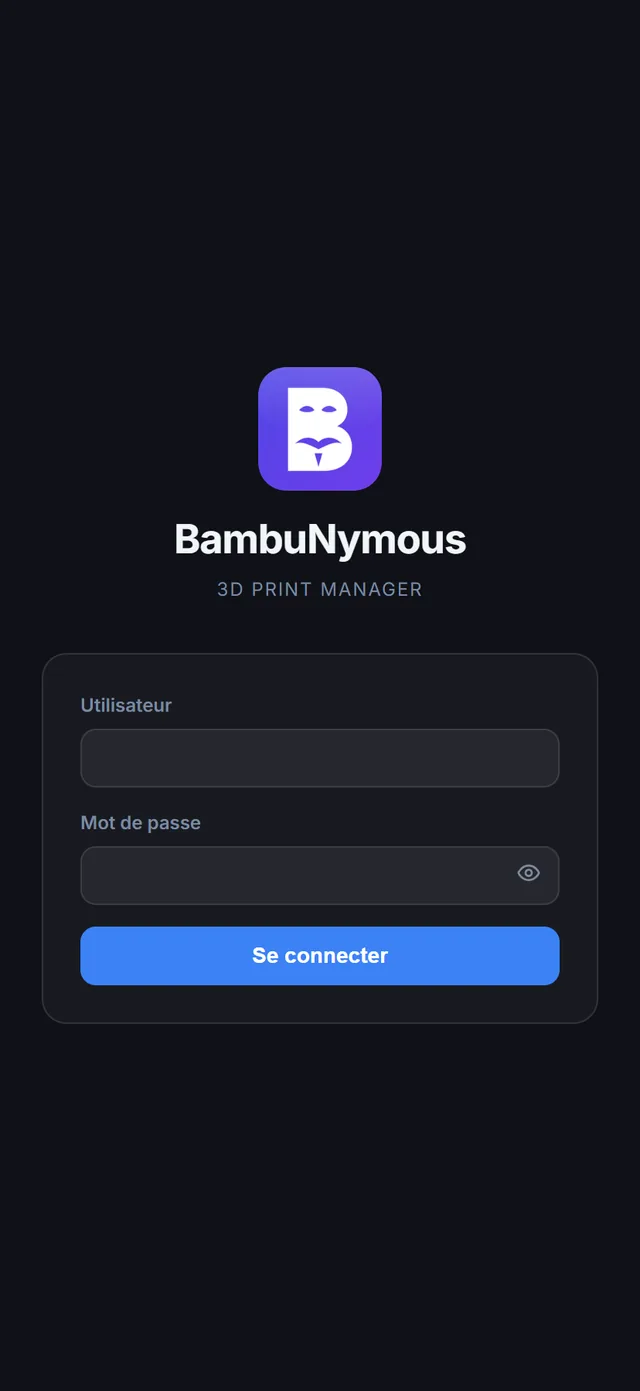
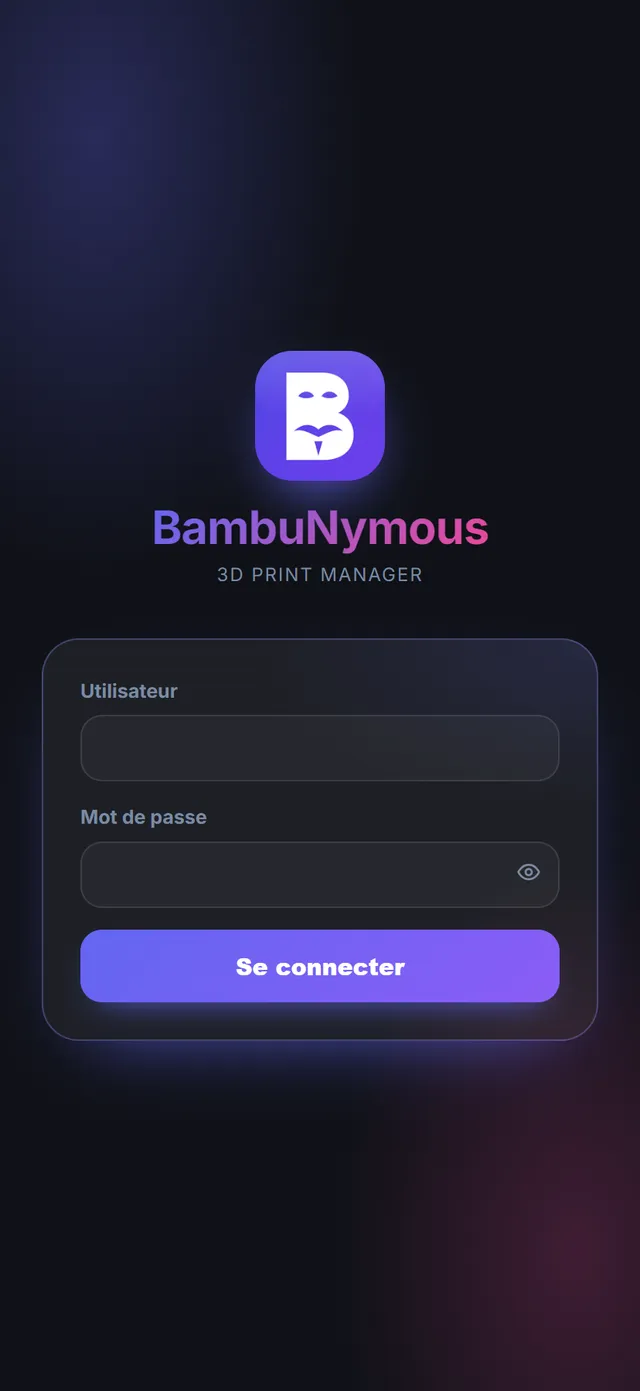
Boîtes de confirmation et écran de connexion dans le nouveau style
- confirmations : coins arrondis, en-tête teinté (rouge pour une action qui détruit), boutons en dégradé
- connexion : fond en halos, nom en dégradé, carte teintée, champs et bouton arrondis

diff --git a/frontend/src/pages/Login.jsx b/frontend/src/pages/Login.jsx
@@ -28,36 +28,40 @@ export default function Login() {
   };
 
   const inp = {
-    width:"100%", background:"var(--surface2)", border:"1px solid var(--border)",
-    borderRadius:10, padding:"10px 14px", fontSize:14, color:"var(--text)",
+    width:"100%", background:"var(--surface)", border:"1px solid var(--border)",
+    borderRadius:14, padding:"12px 14px", fontSize:15, fontWeight:600, color:"var(--text)",
     outline:"none", transition:"border-color 0.15s", boxSizing:"border-box",
   };
 
   return (
     <div style={{ minHeight:"100%", display:"flex", alignItems:"center",
-      justifyContent:"center", background:"var(--bg)", padding:16 }}>
+      justifyContent:"center", padding:16,
+      background:"radial-gradient(60% 45% at 15% 10%, rgba(99,102,241,0.30), transparent 70%), radial-gradient(55% 40% at 90% 90%, rgba(236,72,153,0.22), transparent 70%), var(--bg)" }}>
       <div style={{ width:"100%", maxWidth:360, display:"flex", flexDirection:"column", gap:0 }}>
 
         {/* Logo + nom */}
         <div style={{ display:"flex", flexDirection:"column", alignItems:"center", gap:12, marginBottom:32 }}>
-          <img src="/icon-192.png" alt="BambuNymous" style={{ width:80, height:80, borderRadius:18 }}/>
+          <img src="/icon-192.png" alt="BambuNymous" style={{ width:84, height:84, borderRadius:24, boxShadow:"0 16px 36px -14px #6366F1" }}/>
           <div style={{ textAlign:"center" }}>
-            <h1 style={{ fontSize:26, fontWeight:800, color:"var(--text)",
-              letterSpacing:"-0.02em", margin:0 }}>BambuNymous</h1>
+            <h1 style={{ fontSize:30, fontWeight:900, letterSpacing:"-0.02em", margin:0, lineHeight:1.2,
+              backgroundImage:"linear-gradient(135deg, #6366F1, #EC4899)", WebkitBackgroundClip:"text", backgroundClip:"text", color:"transparent" }}>BambuNymous</h1>
             <p style={{ fontSize:12, color:"var(--muted)", margin:"4px 0 0",
               textTransform:"uppercase", letterSpacing:"0.08em" }}>3D Print Manager</p>
           </div>
         </div>
 
         {/* Formulaire */}
-        <div className="card" style={{ padding:24, display:"flex", flexDirection:"column", gap:14 }}>
+        <div style={{ padding:24, display:"flex", flexDirection:"column", gap:14, borderRadius:24,
+          border:"1px solid color-mix(in srgb, #6366F1 26%, var(--border))",
+          background:"radial-gradient(90% 60% at 100% 0%, rgba(99,102,241,0.14), transparent 70%), var(--surface2)",
+          boxShadow:"0 20px 50px -30px #6366F1" }}>
           <div style={{ display:"flex", flexDirection:"column", gap:6 }}>
-            <label style={{ fontSize:12, color:"var(--muted)", fontWeight:600 }}>Utilisateur</label>
+            <label style={{ fontSize:12.5, color:"var(--muted)", fontWeight:800 }}>Utilisateur</label>
             <input value={user} onChange={e=>setUser(e.target.value)}
               style={inp} autoComplete="username"/>
           </div>
           <div style={{ display:"flex", flexDirection:"column", gap:6 }}>
-            <label style={{ fontSize:12, color:"var(--muted)", fontWeight:600 }}>Mot de passe</label>
+            <label style={{ fontSize:12.5, color:"var(--muted)", fontWeight:800 }}>Mot de passe</label>
             <div style={{ position:"relative" }}>
               <input type={show?"text":"password"} value={pass}
                 onChange={e=>setPass(e.target.value)}
@@ -84,10 +88,10 @@ export default function Login() {
               </p>
             </div>
           )}
-          {error && <p style={{ fontSize:12, color:"#ef4444", margin:0 }}>{error}</p>}
+          {error && <p style={{ fontSize:13, fontWeight:700, color:"#ef4444", margin:0 }}>⚠ {error}</p>}
           <button onClick={handleSubmit} disabled={loading}
-            style={{ width:"100%", padding:"11px", background:"#3b82f6", border:"none",
-              borderRadius:10, color:"white", fontSize:14, fontWeight:700,
+            style={{ width:"100%", padding:"13px", background:"linear-gradient(135deg, #6366F1, #8B5CF6)", border:"none",
+              borderRadius:14, color:"white", fontSize:15, fontWeight:800, boxShadow:"0 10px 22px -12px #6366F1",
               cursor:loading?"not-allowed":"pointer", opacity:loading?0.7:1,
               transition:"opacity 0.15s" }}>
             {loading ? "Connexion…" : "Se connecter"}

diff --git a/frontend/src/components/DialogHost.jsx b/frontend/src/components/DialogHost.jsx
@@ -25,6 +25,9 @@ export default function DialogHost() {
   // les infobulles maison vivent ici (monte une fois, sur toutes les pages)
   if (!dlg) return <TipHost/>;
   const isConfirm = dlg.type === "confirm";
+  // la couleur de la boite : rouge pour une action qui detruit, bleu sinon (un simple message : neutre)
+  const c = dlg.danger ? "#EF4444" : isConfirm ? "#3B82F6" : "#6366F1";
+  const c2 = dlg.danger ? "#F97316" : isConfirm ? "#6366F1" : "#8B5CF6";
   const close = (val) => { dlg.resolve(val); setDlg(null); };
 
   return (<>
@@ -34,24 +37,26 @@ export default function DialogHost() {
         display: "flex", alignItems: "center", justifyContent: "center", padding: 20,
         animation: "dlgFade 0.12s ease" }}>
       <div onClick={(e) => e.stopPropagation()} className="sheet-panel"
-        style={{ width: "100%", maxWidth: 380, borderRadius: 16, padding: 20,
-          border: "1px solid var(--border)", boxShadow: "0 12px 48px rgba(0,0,0,0.4)" }}>
-        {dlg.title && (
-          <p style={{ fontSize: 15, fontWeight: 800, color: "var(--text)", margin: "0 0 8px" }}>{dlg.title}</p>
-        )}
-        <p style={{ fontSize: 13.5, color: "var(--text)", lineHeight: 1.5, margin: "0 0 18px",
-          whiteSpace: "pre-wrap" }}>{dlg.message}</p>
-        <div style={{ display: "flex", gap: 8, justifyContent: "flex-end" }}>
+        style={{ width: "100%", maxWidth: 400, borderRadius: 22, padding: 0, overflow: "hidden",
+          border: `1px solid color-mix(in srgb, ${c} 30%, var(--border))`, boxShadow: `0 20px 60px rgba(0,0,0,0.45), 0 0 0 4px ${c}1a` }}>
+        <div style={{ padding: "18px 20px 16px", background: `radial-gradient(circle at 0% 0%, ${c}33, transparent 60%), var(--surface2)` }}>
+          {dlg.title && (
+            <p style={{ fontSize: 17, fontWeight: 900, color: "var(--text)", margin: "0 0 8px" }}>{dlg.title}</p>
+          )}
+          <p style={{ fontSize: 14.5, fontWeight: 600, color: "var(--text)", lineHeight: 1.5, margin: 0,
+            whiteSpace: "pre-wrap" }}>{dlg.message}</p>
+        </div>
+        <div style={{ display: "flex", gap: 8, justifyContent: "flex-end", padding: "12px 16px 14px", borderTop: "1px solid var(--border)" }}>
           {isConfirm && (
             <button onClick={() => close(false)}
-              style={{ padding: "9px 16px", borderRadius: 10, border: "1px solid var(--border)",
-                background: "var(--surface2)", color: "var(--muted)", fontSize: 13, fontWeight: 600,
+              style={{ padding: "10px 16px", borderRadius: 12, border: "1px solid var(--border)",
+                background: "var(--surface2)", color: "var(--text)", fontSize: 13.5, fontWeight: 800,
                 cursor: "pointer" }}>{dlg.cancelLabel || "Annuler"}</button>
           )}
           <button onClick={() => close(isConfirm ? true : undefined)} autoFocus
-            style={{ padding: "9px 18px", borderRadius: 10, border: "none",
-              background: dlg.danger ? "#ef4444" : "#3b82f6", color: "white", fontSize: 13,
-              fontWeight: 700, cursor: "pointer" }}>
+            style={{ padding: "10px 18px", borderRadius: 12, border: "none",
+              background: `linear-gradient(135deg, ${c}, ${c2})`, boxShadow: `0 8px 18px -10px ${c}`, color: "white", fontSize: 13.5,
+              fontWeight: 800, cursor: "pointer" }}>
             {dlg.confirmLabel || (isConfirm ? "Confirmer" : "OK")}
           </button>
         </div>
